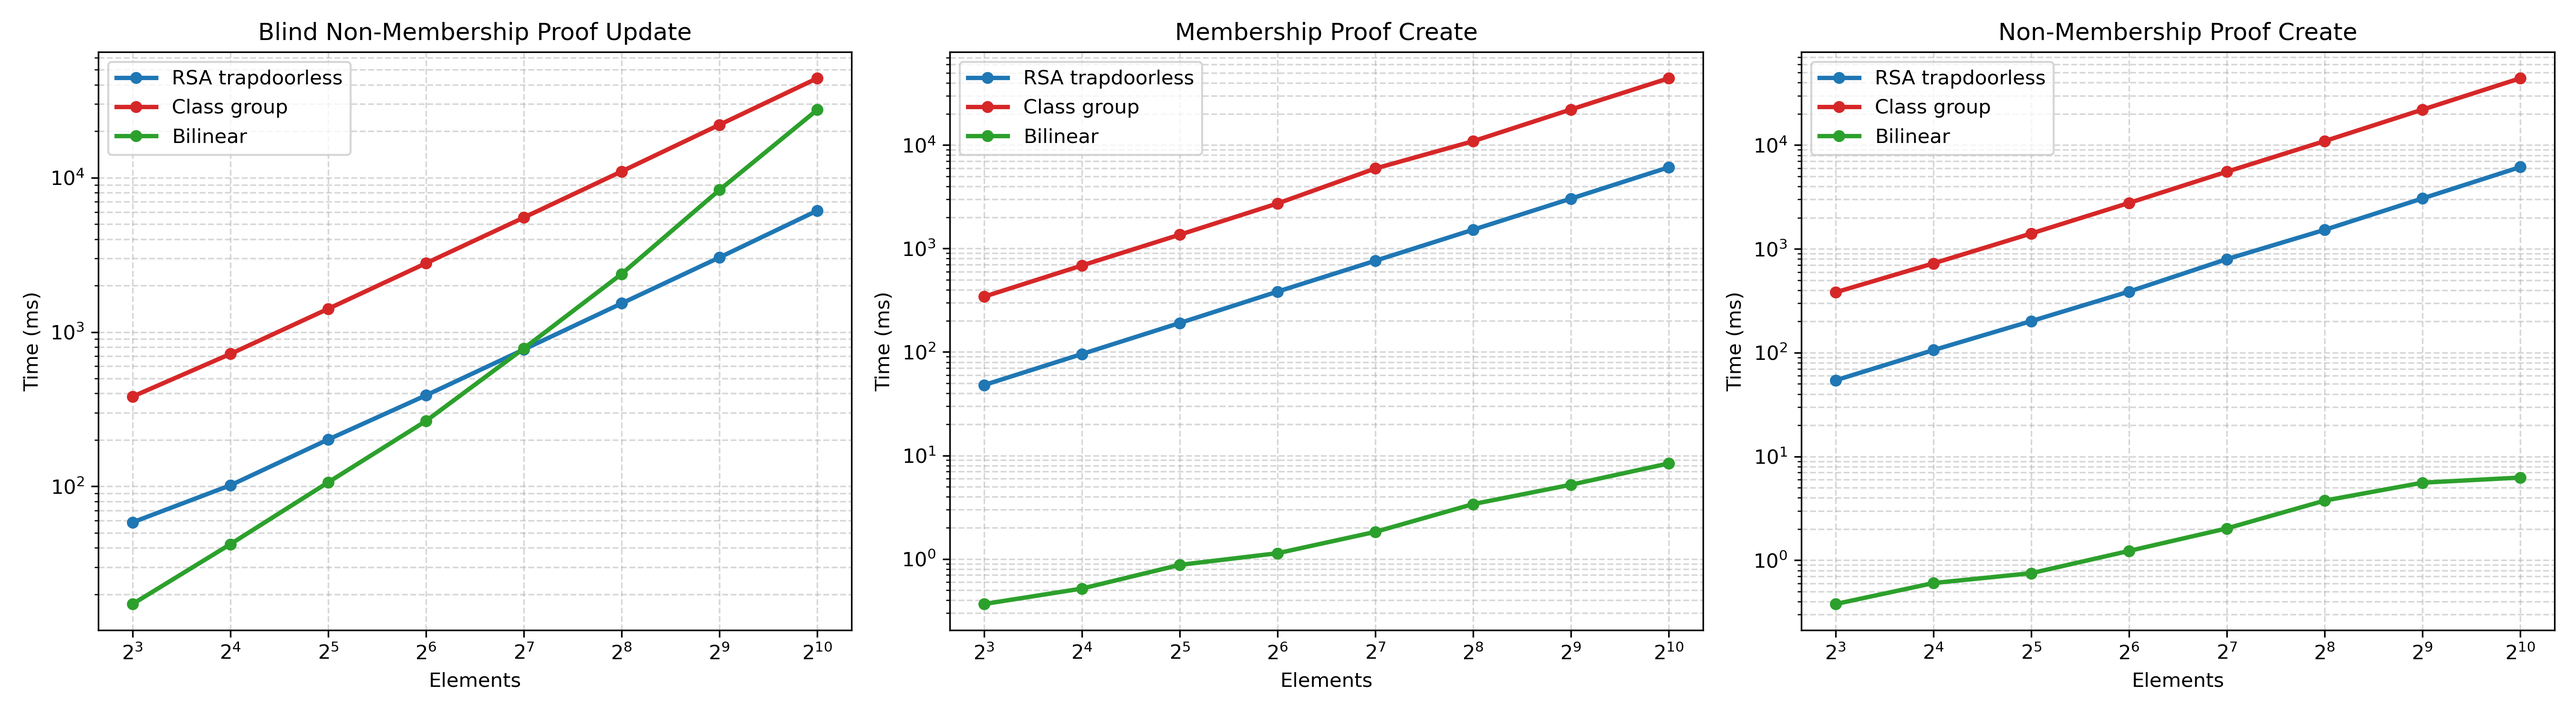
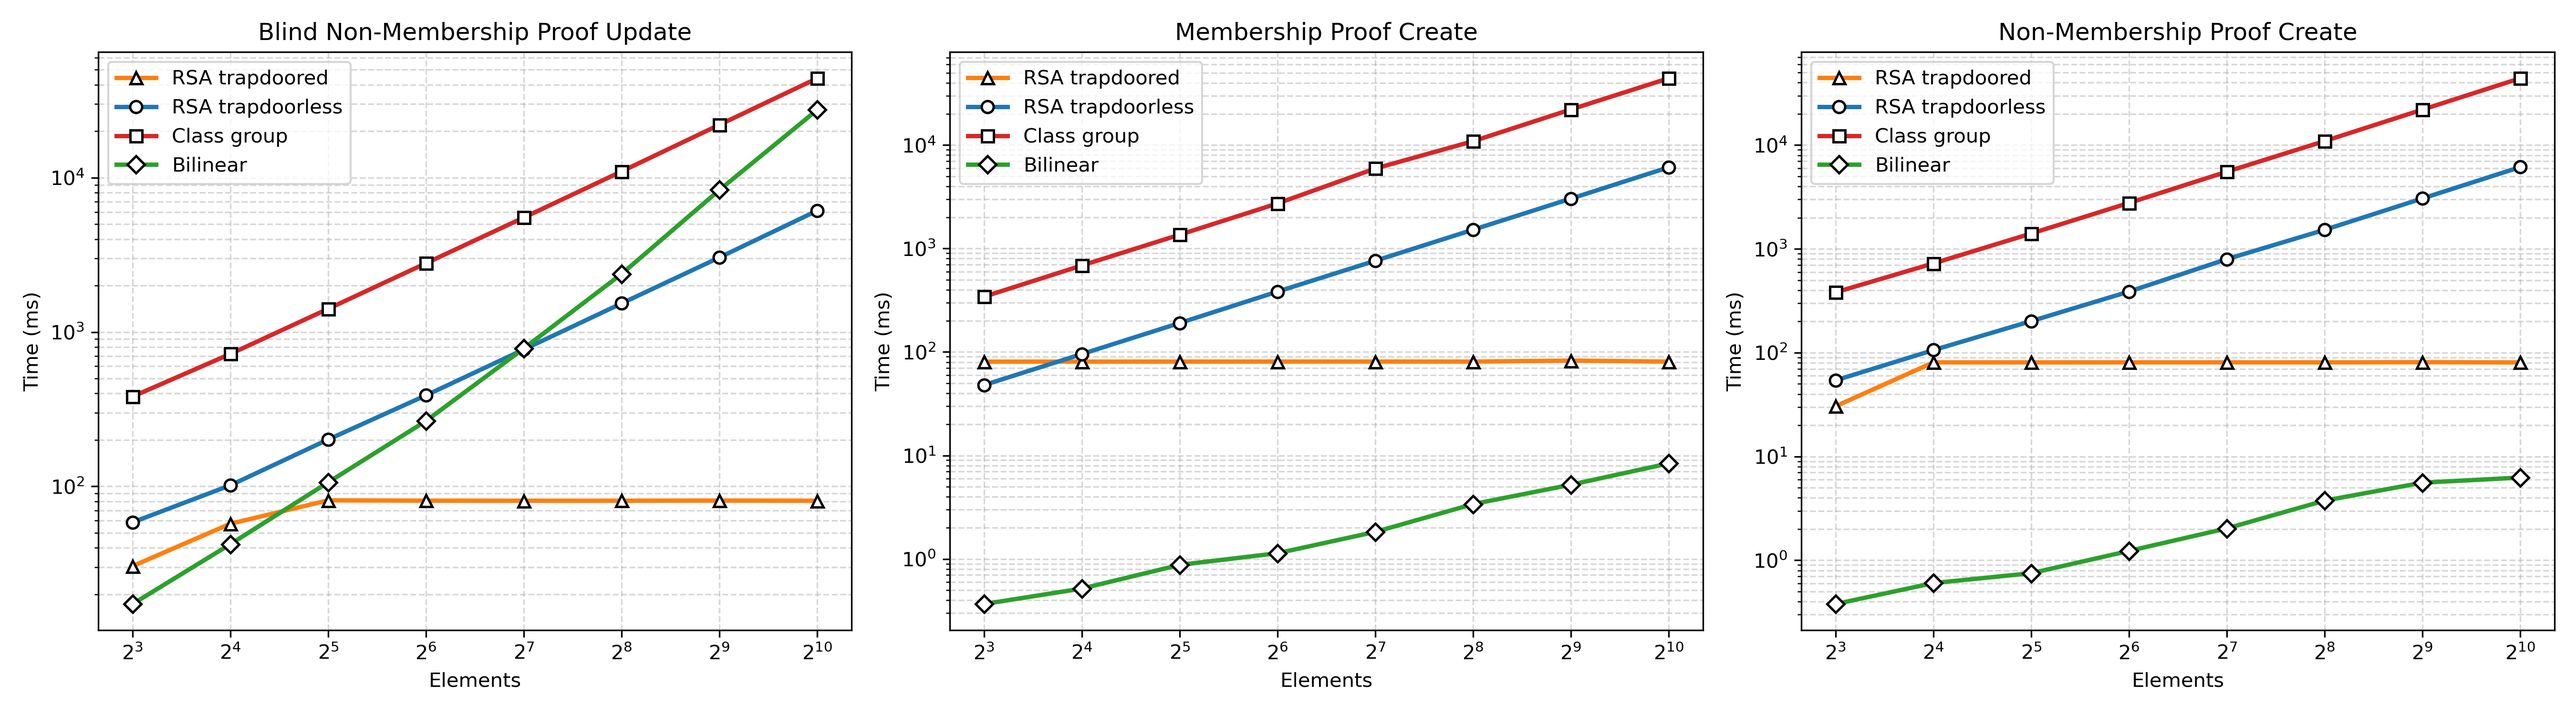
feat(benchmarks): update plotting script and CSV data for RSA trapdoored proofs

diff --git a/figures/plot_bilinear_vs_class_vs_rsa.py b/figures/plot_bilinear_vs_class_vs_rsa.py
@@ -12,28 +12,53 @@ FAMILIES = [
     (
         "Blind Non-Membership Proof Update",
         [
-            ("rsa_trapdoored_non_mem_blind_proof_upd", "RSA trapdoored", "#ff7f0e"),
-            ("rsa_trapdoorless_non_mem_blind_proof_upd", "RSA trapdoorless", "#1f77b4"),
-            ("class_non_mem_blind_proof_upd", "Class group", "#d62728"),
-            ("bilinear_non_mem_blind_proof_upd", "Bilinear", "#2ca02c"),
+            (
+                "rsa_trapdoored_non_mem_blind_proof_upd",
+                "RSA trapdoored",
+                "#ff7f0e",
+                "^",
+            ),
+            (
+                "rsa_trapdoorless_non_mem_blind_proof_upd",
+                "RSA trapdoorless",
+                "#1f77b4",
+                "o",
+            ),
+            ("class_non_mem_blind_proof_upd", "Class group", "#d62728", "s"),
+            ("bilinear_non_mem_blind_proof_upd", "Bilinear", "#2ca02c", "D"),
         ],
     ),
     (
         "Membership Proof Create",
         [
-            ("rsa_trapdoored_mem_proof_create", "RSA trapdoored", "#ff7f0e"),
-            ("rsa_trapdoorless_mem_proof_create", "RSA trapdoorless", "#1f77b4"),
-            ("class_mem_proof_create", "Class group", "#d62728"),
-            ("bilinear_mem_proof_create", "Bilinear", "#2ca02c"),
+            ("rsa_trapdoored_mem_proof_create", "RSA trapdoored", "#ff7f0e", "^"),
+            (
+                "rsa_trapdoorless_mem_proof_create",
+                "RSA trapdoorless",
+                "#1f77b4",
+                "o",
+            ),
+            ("class_mem_proof_create", "Class group", "#d62728", "s"),
+            ("bilinear_mem_proof_create", "Bilinear", "#2ca02c", "D"),
         ],
     ),
     (
         "Non-Membership Proof Create",
         [
-            ("rsa_trapdoored_non_mem_proof_create", "RSA trapdoored", "#ff7f0e"),
-            ("rsa_trapdoorless_non_mem_proof_create", "RSA trapdoorless", "#1f77b4"),
-            ("class_non_mem_proof_create", "Class group", "#d62728"),
-            ("bilinear_non_mem_proof_create", "Bilinear", "#2ca02c"),
+            (
+                "rsa_trapdoored_non_mem_proof_create",
+                "RSA trapdoored",
+                "#ff7f0e",
+                "^",
+            ),
+            (
+                "rsa_trapdoorless_non_mem_proof_create",
+                "RSA trapdoorless",
+                "#1f77b4",
+                "o",
+            ),
+            ("class_non_mem_proof_create", "Class group", "#d62728", "s"),
+            ("bilinear_non_mem_proof_create", "Bilinear", "#2ca02c", "D"),
         ],
     ),
 ]
@@ -86,14 +111,25 @@ def main():
     fig, axes = plt.subplots(1, 3, figsize=(18, 5))
 
     for ax, (title, families) in zip(axes, FAMILIES):
-        for bench_id, label, color in families:
+        for bench_id, label, color, marker in families:
             rows = load_series(bench_id)
             if not rows:
                 continue
 
             x = [r[0] for r in rows]
             y = [r[1] for r in rows]
-            ax.plot(x, y, marker="o", linewidth=2.2, markersize=5, color=color, label=label)
+            ax.plot(
+                x,
+                y,
+                marker=marker,
+                linewidth=2.2,
+                markersize=6,
+                markerfacecolor="white",
+                markeredgecolor="black",
+                markeredgewidth=1.2,
+                color=color,
+                label=label,
+            )
 
             export_csv(bench_id, rows)
             print(f"Loaded {bench_id}: {len(rows)} points -> {x}")
